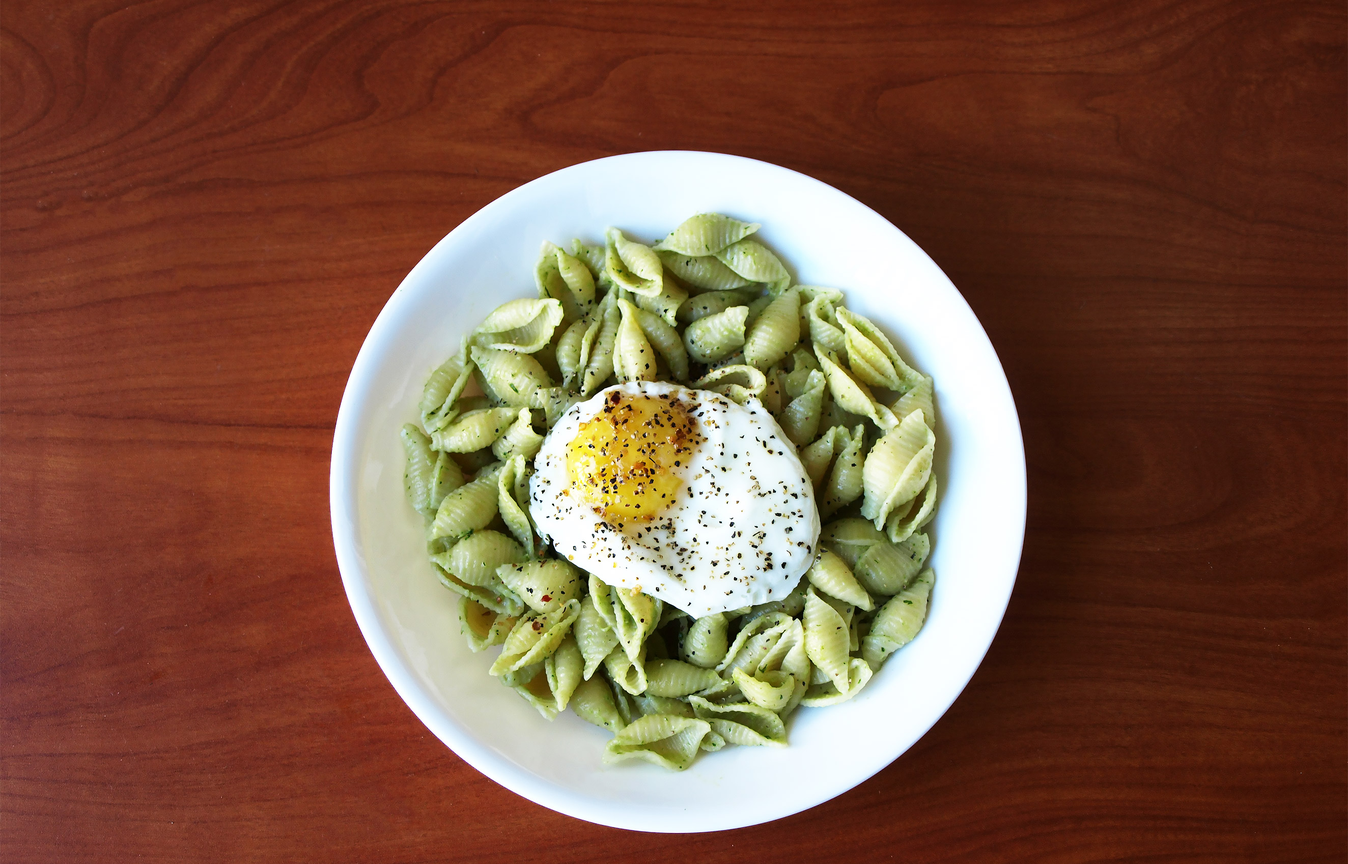
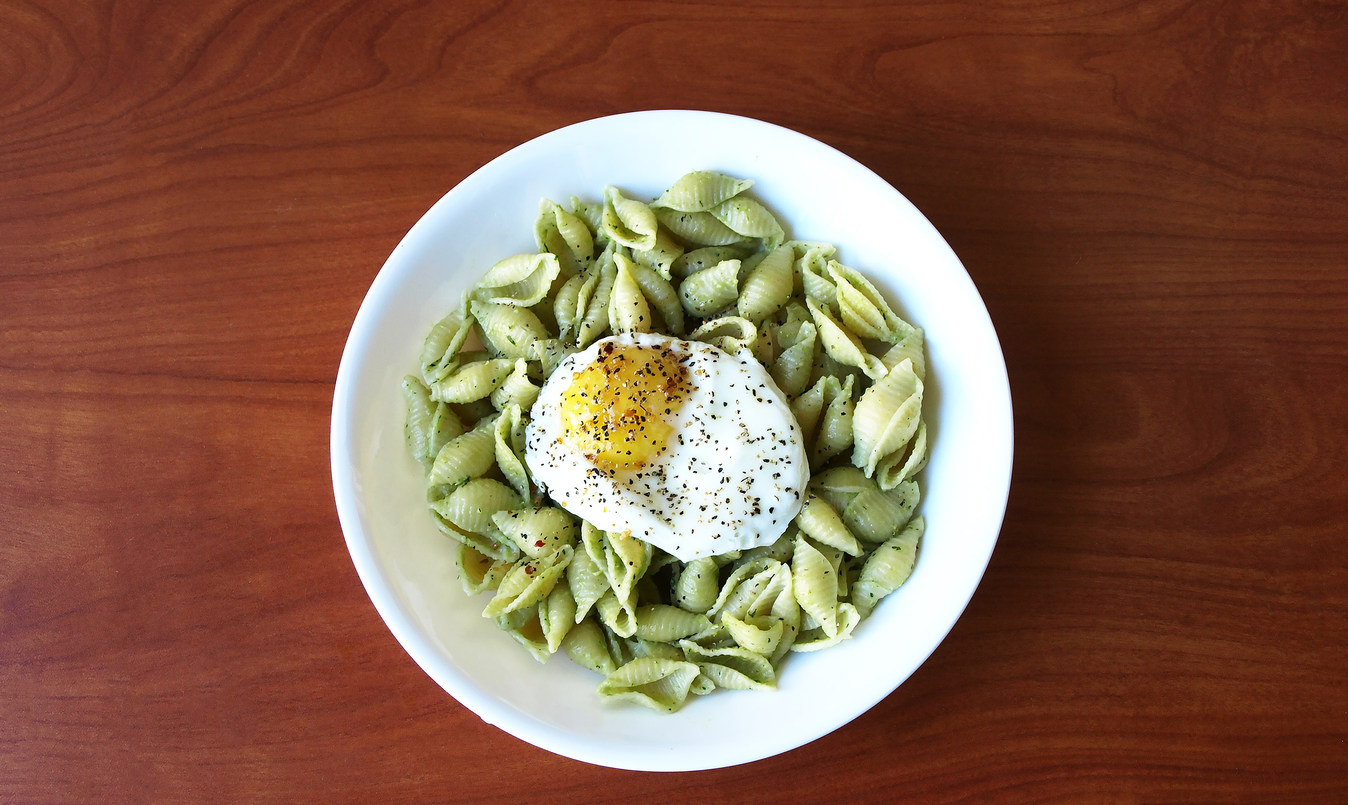
fixed nav and header

diff --git a/css/bitestyles.css b/css/bitestyles.css
@@ -10,6 +10,10 @@ img {
 	max-width: 100%;
 }
 
+.headerimg{
+	margin-top: 4em;
+}
+
 a, a:visited {
 	text-decoration: none;
 	-webkit-transition: all 0.3s;
@@ -42,9 +46,9 @@ a:hover {
 
 h1 {
 	font-family: Didot, Garamond, serif;
-	font-weight: bold;
 	font-size: 2.1em;
 	line-height: 120%;
+	font-weight: 700;
 	margin:0em;
 	padding: 0.4em 0.8em;
 }
@@ -63,7 +67,7 @@ h1 {
 .nav-justified {
 	font-size: 1.4em;
 	padding-top: 4em;
-	padding-bottom: 1em;
+	padding-bottom: 0.7em;
 }
 
 nav {
@@ -342,14 +346,11 @@ footer img {
 
 .pastainfo h3 {
 	font-family: Didot, Garamond, serif;
-	font-weight: bold;
+	font-weight: 700;
 	font-size: 2.3em;
 	color:#72384B;
 }
 
-.pastainfo img {
-	margin-left: 0px;
-}
 
 .ingredients {
 	margin-top: 2em;
@@ -374,6 +375,7 @@ footer img {
 }
 
 
+
 .recipetext {
 	padding: 1.5em 0.8em;
 	font-size: 1.2em;
@@ -392,9 +394,8 @@ footer img {
 	font-weight: 700;
 	margin-bottom: 0.8em;
 	margin-top: 0em;
-	letter-spacing: 1px;
-	font-size: 1.2em;
-	text-transform: uppercase;
+	font-size: 1.4em;
+	font-family: Didot, Garamond, sans-serif;
 	color: #72384B;
 }
 
@@ -416,7 +417,7 @@ footer img {
 	font-size: 1.2em;
 	margin-left: 0.9em;
 	border: 2px solid #72384B;
-	margin-bottom: 1.5em;
+	margin-bottom: 1.3em;
 }
 
 .searchtop {
@@ -436,12 +437,12 @@ footer img {
 .searchheader {
 	font-family: Didot, Garamond, serif;
 	font-size: 2em;
-	font-weight: 700;
+	text-align: center;
 	line-height: 130%;
 }
 
 .searchdesc {
-	padding-top: 0.8em;
+	padding-top: 0.4em;
 	padding-left: 0em;
 }
 
@@ -456,11 +457,11 @@ footer img {
 	line-height: 130%;}
 
 .searchresults li{
-	margin-bottom: 3em;
+	margin-bottom: 2em;
 }
 
 .searchdropdown{
-	padding-top: 2em;
+	padding-top: 3em;
 	padding-bottom: 2em;
 }
 
@@ -486,10 +487,12 @@ footer img {
 @media (min-width: 769px){
 
 	h1{
-	font-family: Didot, Garamond, serif;
-	font-weight: bold;
-	color:white;
+	color: white;
 	font-size: 2.8em;}
+
+	.headerimg{
+	margin-top: 0em;
+}
 
 
 	.webheader h1 {
@@ -570,11 +573,12 @@ footer img{
 	}
 
 	.nav>li>a { 
-		padding: 0.8em 3em;}
+		padding: 0.8em 4em;
+		height: 100%;}
 
 	.nav>li {
 		width: 10em;
-		padding-left: 3em;
+		padding-left: 1em;
 	}
 
 	.nav-justified {
@@ -589,7 +593,6 @@ footer img{
 
 	#input {
     margin-top: 0.9em;
-	margin-left: 2em;
 	}
 
 
@@ -635,13 +638,14 @@ aside {
 }
 
 .avocadotitle {
-	margin-left: 1.5em;
 	padding-bottom: 1em;
 }
 
 .avocadotitle img{
 	padding-left: 0em;
+	margin-left: 1.2em;
 }
+
 
 .searchtop input {
 	margin-left: -15px;

diff --git a/avocadopasta.html b/avocadopasta.html
@@ -10,6 +10,7 @@
 
   <link rel="icon" type="image/png" href="images/biteicon.png">
   <link href='https://fonts.googleapis.com/css?family=Karla:400,400italic,700,700italic' rel='stylesheet' type='text/css'>
+  <link href='https://fonts.googleapis.com/css?family=Playfair+Display:400,700' rel='stylesheet' type='text/css'>
 
   <!--[if lt IE 9]>
   <link rel="stylesheet" type="text/css" href="ie8-and-down.css" />
@@ -96,12 +97,12 @@
 
 
 
-  <img src="images/avocadopasta.jpg" alt="avocado close-up" class="img-responsive"> 
+  <img src="images/avocadopasta.jpg" alt="avocado close-up" class="img-responsive avocadotop headerimg"> 
 
 
   <div class="col-md-offset-1 col-md-10 col-xs-12 pastainfo">
 
-      <div class="avocadotitle">
+      <div class="avocadotitle col-md-offset-4">
         <h3>Avocado Pasta</h3>
         <img src="images/pastarating.png" alt="easy rating" class="img-responsive col-xs-3 col-md-1">
         <i>12-15 minutes, Serves 1 generously</i>
@@ -135,7 +136,7 @@
 
       <p>Cook your pasta according to the package. While the pasta is cooking, add the avocado, garlic, cilantro, lime juice, and olive oil to a blender and blend well. When the pasta is cooked, save 2 tablespoons of pasta water and drain well. 
 
-      <p>Toss the pasta with the avocado sauce, thinning with the pasta water if needed. Season with salt and pepper to taste and add pinch of crushed red pepper. Top with a fried egg and cilantro if desired, and enjoy!</p>
+      <p>Toss the pasta with the avocado sauce, thinning with the pasta water if needed. Season with salt and pepper to taste and add a pinch of crushed red pepper for extra flavor if desired. Top with a fried egg and cilantro if desired, and enjoy!</p>
 
     </article>
 
@@ -156,7 +157,7 @@
  </div>
 
   
-  <div id="recipebox" class="col-xs-12 col-md-offset-1 col-md-10">
+  <div id="recipebox" class="col-xs-12 col-md-offset-2 col-md-9">
     <h6>Tags:</h6> 
     <a href="#">avocado</a>
     <a href="#">pasta</a>
@@ -164,7 +165,7 @@
   </div>
 
 
-    <form class="comment col-xs-10 col-md-offset-1 col-md-10">
+    <form class="comment col-xs-10 col-md-offset-2 col-md-9">
 
         <label class="col-xs-3">Name:</label>
         <input type="name" class="col-xs-10" placeholder="Name"></input>
@@ -174,7 +175,7 @@
 
     </form>
 
-  <div id="recipebox" class="col-xs-12 col-md-offset-1 col-md-10">
+  <div id="recipebox" class="col-xs-12 col-md-offset-2 col-md-9">
     <h6>Comments (0)</h6> 
   </div>
 

diff --git a/recipes.html b/recipes.html
@@ -101,7 +101,7 @@
 
    <div class="recipetop">
 
-     <img src="images/rosemarysodasearch.jpg" alt="rosecloseup" class="img-responsive"> 
+     <img src="images/rosemarysodasearch.jpg" alt="rosecloseup" class="img-responsive headerimg"> 
       <h1>Search Recipes</h1>
 
 
@@ -193,7 +193,7 @@
                 <img src="images/ratingeasy.png" alt="Rating: Easy" class="img-responsive"> Easy
               </div>
 
-              <img src="images/comment.png" alt="Comment bubble" class="img-responsive"> 3</p>
+              <img src="images/comment.png" alt="Comment bubble" class="img-responsive"> 0</p>
 
             </div>
 

diff --git a/index.html b/index.html
@@ -96,7 +96,7 @@
 
 
 
-    <img src="images/pastaandrose.jpg" alt="avocado pasta and rose" class="img-responsive">
+    <img src="images/pastaandrose.jpg" alt="avocado pasta and rose" class="img-responsive headerimg">
 
     <div class="webheader col-md-offset-4">
       <h1>Amazingly easy lunches ready in 30 minutes</h1>
